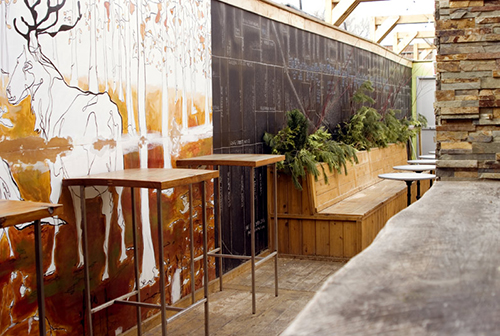
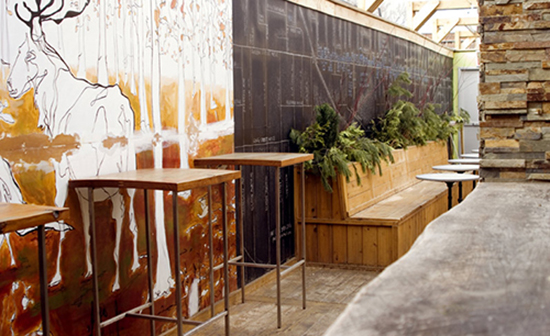
added some styling and a fade out overlay on the slideshow

diff --git a/index.html b/index.html
@@ -9,7 +9,7 @@
 <body>
   <div class="container clearfix">
 
-    <h1>Top 5 T.O.</h1>
+    <!-- <h1>Top 5 T.O.</h1> -->
     <h2>Show me the top 5 bars in
       <select>
         <option value="1">Queen West</option>
@@ -30,35 +30,40 @@
 
       <div class="full">
         <!-- first image is viewable to start -->
-        <a href="images/bars/top1large.jpg" id="fancy"><img src="images/bars/top1large.jpg" /></a>
+        <a href="images/bars/top1large.jpg" id="fancy">
+          <img src="images/bars/top1large.jpg" />
+        </a>
+        <div class="overlay"></div>
 
       </div><!--end of full div-->
 
       <div class="description description-czehoski">
         <h3>Czehoski</h3>
-        <p>Czehoski's rooftop patio is one to fill up fast, meaning the determined patio-seekers should head straight up to its second floor (and bypass the provocative art displayed on Czehoski's walls). This patio is pretty well enclosed with a shingled wall border and wood beam frame, so a breeze can sometimes be hard to come by. Nevertheless, the mood up top is pretty laid-back and relaxed, with a wall of bench seating, a spattering of patio umbrellas, and cold beers all around.</p>
+        <p>Czehoski's rooftop patio is one to fill up fast, meaning the determined patio-seekers should head straight up to its second floor (and bypass the provocative art displayed on Czehoski's walls).</p>
 
       </div>
 
-      <div class="description description-gladstone">
+      <div class="description description-gladstone hidden">
         <h3>The Drake</h3>
-        <p>Lorem ipsum dolor sit amet, consectetur adipisicing elit. Vitae dicta quod voluptatem omnis velit ex ullam, ducimus iure itaque reprehenderit commodi, earum atque voluptas quam. Esse alias consectetur rerum provident.</p>
+        <p>For most Torontonians, the Drake is a bar with a hotel somewhere overhead, but it took a few years for the bar to develop its identity after the grand renovation and reopening seven years ago.</p>
       </div>
 
-      <div class="description description-drake">
+      <div class="description description-drake hidden">
         <h3>The Gladstone</h3>
-        <p>Lorem ipsum dolor sit amet, consectetur adipisicing elit. Vitae dicta quod voluptatem omnis velit ex ullam, ducimus iure itaque reprehenderit commodi, earum atque voluptas quam. Esse alias consectetur rerum provident.</p>
+        <p>There are few success stories like the Gladstone, whose painstaking reinvention from flophouse to destination was centred around the Melody Bar.</p>
       </div>
 
-       <div class="description description-gusto">
+       <div class="description description-gusto hidden">
         <h3>Gusto 101</h3>
-        <p>Lorem ipsum dolor sit amet, consectetur adipisicing elit. Vitae dicta quod voluptatem omnis velit ex ullam, ducimus iure itaque reprehenderit commodi, earum atque voluptas quam. Esse alias consectetur rerum provident.</p>
+        <p>Gusto 101 offers two patios; one at street level and one with a retractable glass ceiling on the rooftop.</p>
       </div>
 
-      <div class="description description-squirly">
+      <div class="description description-squirly hidden">
         <h3>Squirly's</h3>
-        <p>Lorem ipsum dolor sit amet, consectetur adipisicing elit. Vitae dicta quod voluptatem omnis velit ex ullam, ducimus iure itaque reprehenderit commodi, earum atque voluptas quam. Esse alias consectetur rerum provident.</p>
+        <p>Squirly's is a small bar on Queen near Niagara is a good bet for a cold pint and cozy conversation among friends. They have food too including a weekend brunch.</p>
       </div>
+
+      <!-- Copy courtesy of BlogTO! -->
 
 
     </div><!--end of gallery div-->
@@ -69,13 +74,13 @@
         <!DOCTYPE svg PUBLIC "-//W3C//DTD SVG 1.1//EN" "http://www.w3.org/Graphics/SVG/1.1/DTD/svg11.dtd"><svg version="1.1" xmlns="http://www.w3.org/2000/svg" xmlns:xlink="http://www.w3.org/1999/xlink" width="32" height="32" viewBox="0 0 32 32"><g id="icomoon-ignore">
         <line stroke-width="1" x1="" y1="" x2="" y2="" stroke="#449FDB" opacity=""></line></g>
         <path d="M29.794 2.333l-0.126-0.126c-2.942-2.942-7.756-2.942-10.698 0l-6.816 6.817c-2.942 2.942-2.942 7.756 0 10.697l0.126 0.126c0.245 0.245 0.505 0.466 0.773 0.671l2.495-2.495c-0.291-0.172-0.566-0.377-0.816-0.627l-0.126-0.126c-1.597-1.597-1.597-4.196 0-5.793l6.816-6.816c1.597-1.597 4.196-1.597 5.793 0l0.126 0.126c1.597 1.597 1.597 4.197 0 5.793l-3.084 3.084c0.535 1.322 0.789 2.731 0.767 4.137l4.769-4.769c2.942-2.942 2.942-7.756-0-10.697zM19.72 12.154c-0.245-0.245-0.505-0.466-0.773-0.67l-2.495 2.495c0.291 0.172 0.566 0.377 0.816 0.627l0.126 0.126c1.597 1.597 1.597 4.196 0 5.793l-6.817 6.817c-1.597 1.597-4.196 1.597-5.793 0l-0.126-0.126c-1.597-1.598-1.597-4.196 0-5.793l3.084-3.084c-0.535-1.322-0.789-2.731-0.767-4.137l-4.769 4.769c-2.942 2.942-2.942 7.756 0 10.698l0.126 0.126c2.942 2.942 7.756 2.942 10.698 0l6.816-6.816c2.942-2.942 2.942-7.756 0-10.698l-0.126-0.126z"></path>
-      </svg>Website</a>
+      </svg></a>
       <a href="#"><?xml version="1.0" encoding="utf-8"?>
         <!-- Generated by IcoMoon.io -->
         <!DOCTYPE svg PUBLIC "-//W3C//DTD SVG 1.1//EN" "http://www.w3.org/Graphics/SVG/1.1/DTD/svg11.dtd">
-        <svg version="1.1" xmlns="http://www.w3.org/2000/svg" xmlns:xlink="http://www.w3.org/1999/xlink" width="32" height="32" viewBox="0 0 32 32"><g id="icomoon-ignore"><line stroke-width="1" x1="" y1="" x2="" y2="" stroke="#449FDB" opacity=""></line></g><path d="M16 0c-5.523 0-10 4.477-10 10 0 10 10 22 10 22s10-12 10-22c0-5.523-4.477-10-10-10zM16 16.125c-3.383 0-6.125-2.742-6.125-6.125s2.742-6.125 6.125-6.125 6.125 2.742 6.125 6.125-2.742 6.125-6.125 6.125zM12.125 10c0-2.14 1.735-3.875 3.875-3.875s3.875 1.735 3.875 3.875c0 2.14-1.735 3.875-3.875 3.875s-3.875-1.735-3.875-3.875z"></path></svg>Map</a>
+        <svg version="1.1" xmlns="http://www.w3.org/2000/svg" xmlns:xlink="http://www.w3.org/1999/xlink" width="32" height="32" viewBox="0 0 32 32"><g id="icomoon-ignore"><line stroke-width="1" x1="" y1="" x2="" y2="" stroke="#449FDB" opacity=""></line></g><path d="M16 0c-5.523 0-10 4.477-10 10 0 10 10 22 10 22s10-12 10-22c0-5.523-4.477-10-10-10zM16 16.125c-3.383 0-6.125-2.742-6.125-6.125s2.742-6.125 6.125-6.125 6.125 2.742 6.125 6.125-2.742 6.125-6.125 6.125zM12.125 10c0-2.14 1.735-3.875 3.875-3.875s3.875 1.735 3.875 3.875c0 2.14-1.735 3.875-3.875 3.875s-3.875-1.735-3.875-3.875z"></path></svg></a>
         <a href="#"><?xml version="1.0" encoding="utf-8"?><!-- Generated by IcoMoon.io -->
-          <!DOCTYPE svg PUBLIC "-//W3C//DTD SVG 1.1//EN" "http://www.w3.org/Graphics/SVG/1.1/DTD/svg11.dtd"><svg version="1.1" xmlns="http://www.w3.org/2000/svg" xmlns:xlink="http://www.w3.org/1999/xlink" width="32" height="32" viewBox="0 0 32 32"><g id="icomoon-ignore"><line stroke-width="1" x1="" y1="" x2="" y2="" stroke="#449FDB" opacity=""></line></g><path d="M22 20c-2 2-2 4-4 4s-4-2-6-4-4-4-4-6 2-2 4-4-4-8-6-8-6 6-6 6c0 4 4.109 12.109 8 16s12 8 16 8c0 0 6-4 6-6s-6-8-8-6z"></path></svg>Phone</a>
+          <!DOCTYPE svg PUBLIC "-//W3C//DTD SVG 1.1//EN" "http://www.w3.org/Graphics/SVG/1.1/DTD/svg11.dtd"><svg version="1.1" xmlns="http://www.w3.org/2000/svg" xmlns:xlink="http://www.w3.org/1999/xlink" width="32" height="32" viewBox="0 0 32 32"><g id="icomoon-ignore"><line stroke-width="1" x1="" y1="" x2="" y2="" stroke="#449FDB" opacity=""></line></g><path d="M22 20c-2 2-2 4-4 4s-4-2-6-4-4-4-4-6 2-2 4-4-4-8-6-8-6 6-6 6c0 4 4.109 12.109 8 16s12 8 16 8c0 0 6-4 6-6s-6-8-8-6z"></path></svg></a>
         </div>
       </div>
 
@@ -98,14 +103,21 @@
       e.preventDefault();
       // when you click on thumbnail, store the information 'full' (which is the big picture) into this variable
       var largeImage = $(this).data('full');
-      $('.full img').attr('src', largeImage);
-      $('.full a').attr('href', largeImage);
+      //function to turn overlay from transparent to opaque
+      $('.full .overlay').css("opacity", "1");
+      setTimeout(function() {
+        $('.full img').attr('src', largeImage);
+        $('.full a').attr('href', largeImage);
+        $('.full .overlay').css("opacity", "0");  
+      }, 500);
+
+      
       $('.previews a').removeClass();
       $(this).addClass('selected');
 
       var bar = $(this).attr("data-bar");
-      $('.description').hide();
-      $('.description-' + bar).show();
+        $('.description').addClass('hidden');
+        $('.description-' + bar).removeClass('hidden');
     });
 
     $('#fancy').fancybox();

diff --git a/stylesheet.scss b/stylesheet.scss
@@ -15,7 +15,8 @@ input[type=reset],input[type=submit]{-webkit-appearance:button;cursor:pointer;}b
 
  body {
  	font-family: 'Lato', sans-serif;
- 	background-image: url('images/wild-sea.png');
+    background: #333;
+    color: #fff;
  }
 
  h1 {
@@ -29,55 +30,86 @@ input[type=reset],input[type=submit]{-webkit-appearance:button;cursor:pointer;}b
  h2 {
  	text-align: center;
  	font-weight: 400;
- }
+}
 
- .container {
- 	background-color: #FFF;
+.container {
+ 	background-color: #333;
  	max-width: 1200px;
  	margin: 0 auto;
- }
+}
 
- .gallery {
+.gallery {
  	float: left;
  	width: 75%;
- 	.previews {
+ 	
+    .previews {
  		float: left;
  		width: 20%;
  		a {
  			display: inline-block;
- 			// margin: 0px 10px 10px 15px;
-            img {
-                border: 2px solid grey;
-            }
- 		}
-.selected img {
-    border: 5px solid orange;
+        }
+        img {
+            border: 4px solid #eee;
+        }
+
+	}
+    
+    .selected img {
+        border: 4px solid #F12772;
+    }
+
 }
 
+.full {
+
+    float:left;
+    width:80%;
+    position: relative;
+
+    img {
+	   width: 100%;
+        border: 4px solid #eee;
     }
 
-    .full img {
-    	width: 80%;
-        border: 2px solid green;
-
+    .overlay {
+        position: absolute;
+        bottom: 7px;
+        right: 4px;
+        top: 4px;
+        left: 4px;
+        background: black;
+        opacity: 0;
+        transition: opacity 500ms ease-in-out;
     }
 
+}
 
-    .description{
-    	float: right;
-    	width: 80%;
-        display: none;
-    }
 
- }
+.description{
+	float: right;
+	width: 80%;
+}
+
+.hidden {
+    display: none;
+}
+
+ 
 
  .sidebar {
  	width: 25%;
  	float: left;
- 	a {
- 		display: block;
- 		padding: 20px;
- 		text-decoration: none;
- 	}
- }
+    a {
+        display: block;
+        padding: 20px;
+        text-decoration: none;
+        svg{
+            fill: #F12772;
+        }
+    }
+}
+
+
+
+ 	
 

diff --git a/stylesheet.css b/stylesheet.css
@@ -135,7 +135,8 @@ legend, button::-moz-focus-inner, input::-moz-focus-inner {
 
 body {
   font-family: 'Lato', sans-serif;
-  background-image: url("images/wild-sea.png"); }
+  background: #333;
+  color: #fff; }
 
 h1 {
   text-align: center;
@@ -149,7 +150,7 @@ h2 {
   font-weight: 400; }
 
 .container {
-  background-color: #FFF;
+  background-color: #333;
   max-width: 1200px;
   margin: 0 auto; }
 
@@ -161,17 +162,35 @@ h2 {
     width: 20%; }
     .gallery .previews a {
       display: inline-block; }
-      .gallery .previews a img {
-        border: 2px solid grey; }
-    .gallery .previews .selected img {
-      border: 5px solid orange; }
-  .gallery .full img {
-    width: 80%;
-    border: 2px solid green; }
-  .gallery .description {
-    float: right;
-    width: 80%;
-    display: none; }
+    .gallery .previews img {
+      border: 4px solid #eee; }
+  .gallery .selected img {
+    border: 4px solid #F12772; }
+
+.full {
+  float: left;
+  width: 80%;
+  position: relative; }
+  .full img {
+    width: 100%;
+    border: 4px solid #eee; }
+  .full .overlay {
+    position: absolute;
+    bottom: 7px;
+    right: 4px;
+    top: 4px;
+    left: 4px;
+    background: black;
+    opacity: 0;
+    -webkit-transition: opacity 500ms ease-in-out;
+            transition: opacity 500ms ease-in-out; }
+
+.description {
+  float: right;
+  width: 80%; }
+
+.hidden {
+  display: none; }
 
 .sidebar {
   width: 25%;
@@ -180,3 +199,5 @@ h2 {
     display: block;
     padding: 20px;
     text-decoration: none; }
+    .sidebar a svg {
+      fill: #F12772; }
